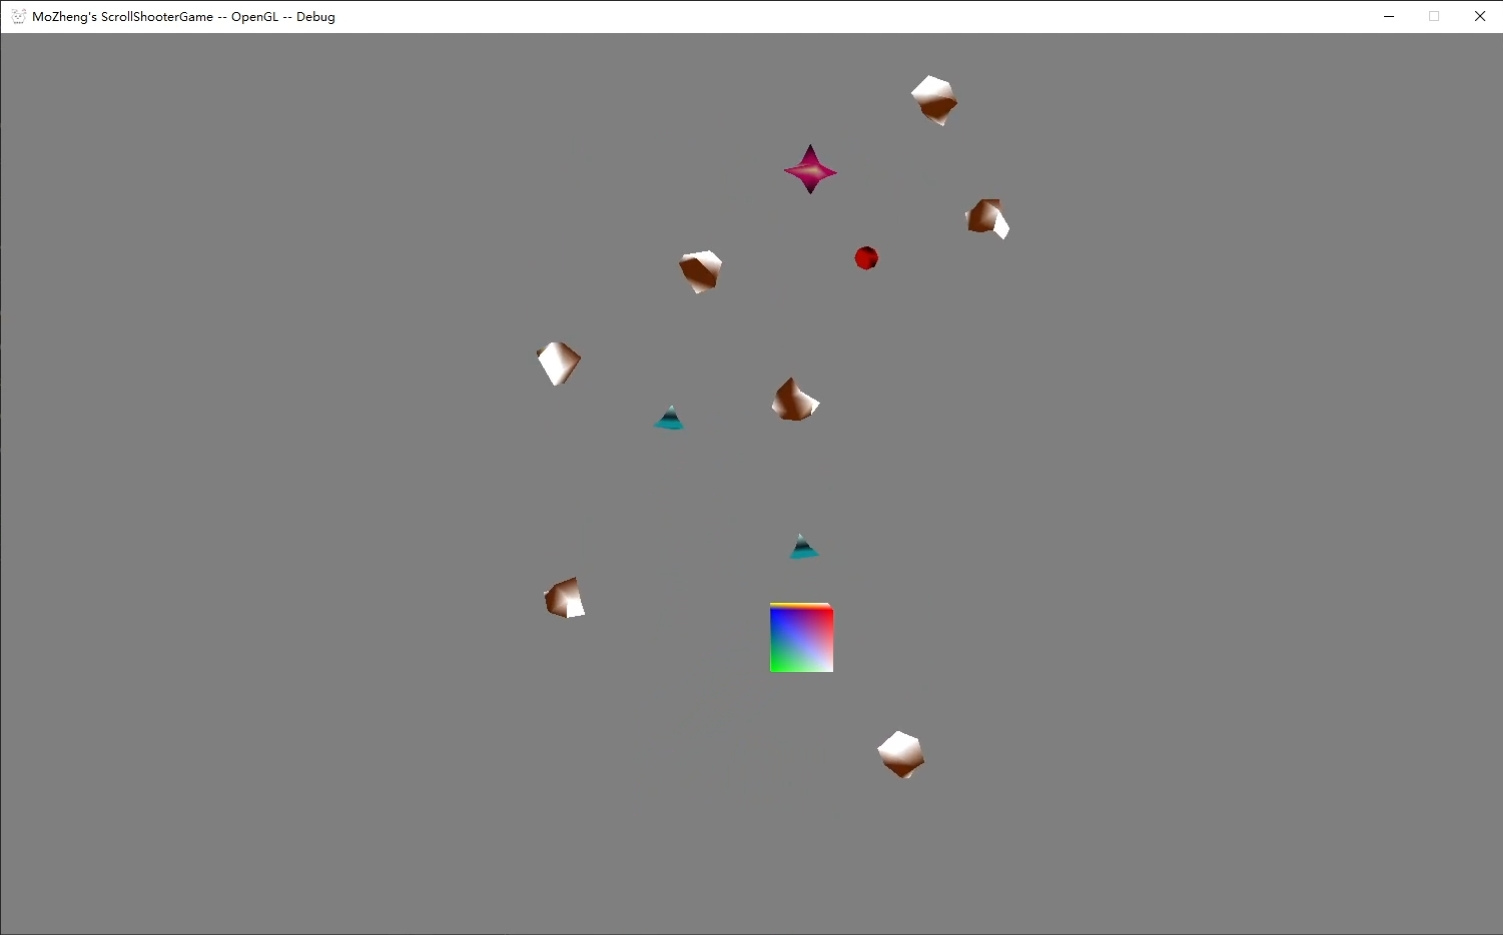
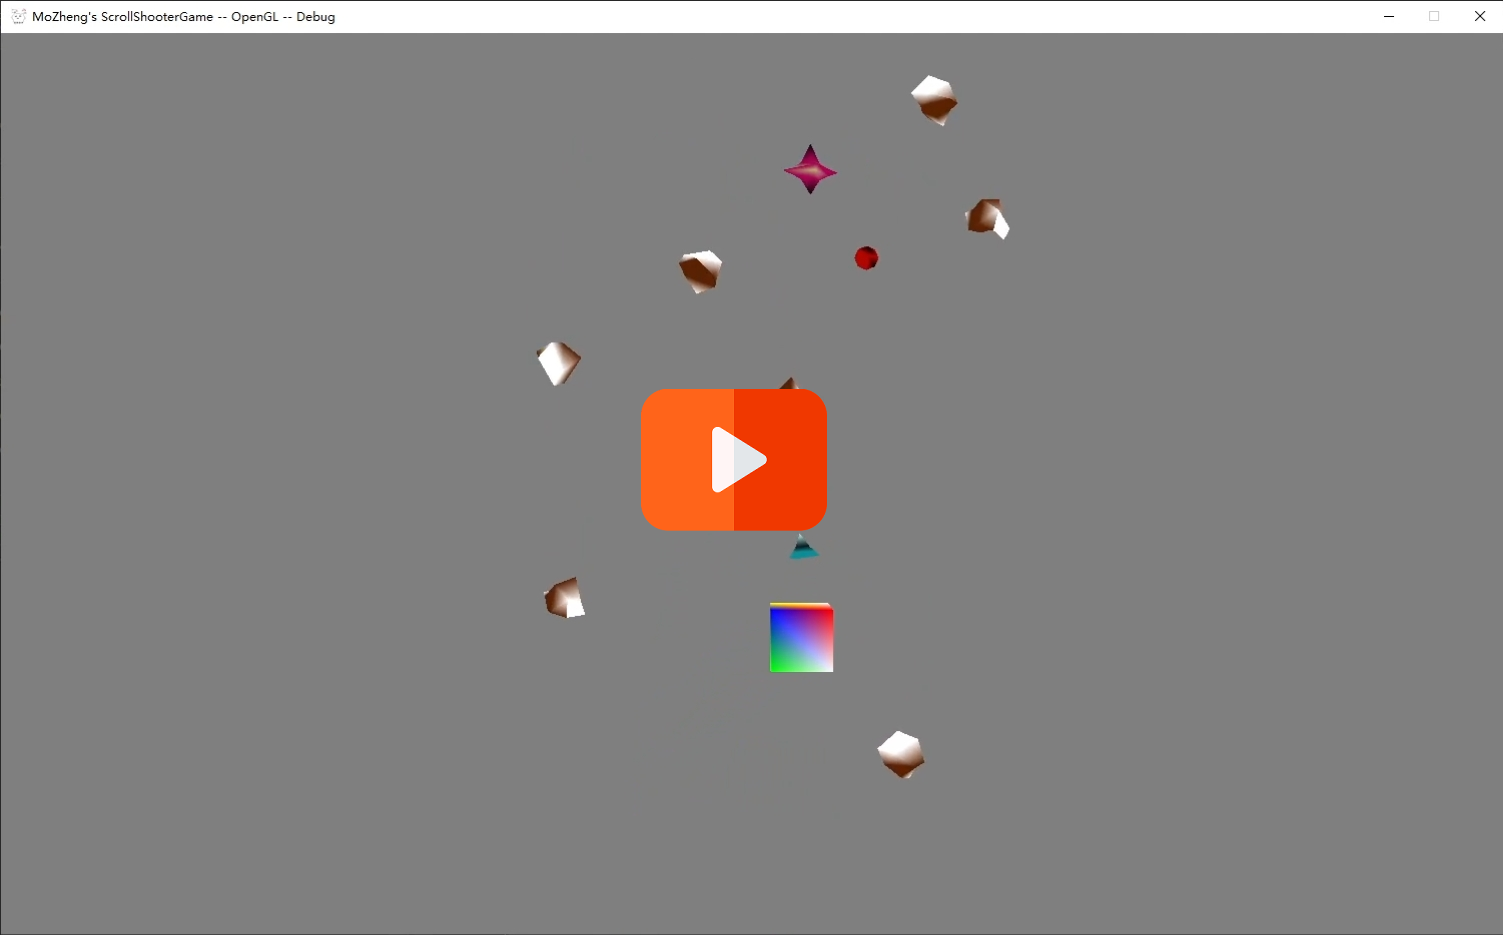
Update project description (add Chinese translation)

Changed region(s): [[0.4285, 0.4032, 0.5509, 0.5893]]

diff --git a/README.zh-CN.md b/README.zh-CN.md
@@ -19,27 +19,33 @@
 
 ## 引擎展示
 
+| **小游戏展示 - 雷电II** |
+|         :---           |
+| 下面的视频展示了一款基于该游戏引擎开发的竖版射击小游戏，该小游戏的玩法参考了 *"雷电II"*。玩家是视频中彩色方块，需要躲避下落的岩石、外星人和敌人的子弹。 <br> 小游戏的开发使用了渲染管线，物理系统，音频系统等引擎功能。该小游戏可以通过[此链接](Documents/Builds/ScrollShooterDemo)下载并运行。|
+| [<img src="Documents/Images/MiniGameDemo.png" width="800px">](https://www.youtube.com/watch?v=xEG6YPtX860) |
+
+
 | **渲染管线展示** |
 |       :---      |
 | 下面的GIF演示了渲染管线的功能，例如网格渲染、网格变换、顶点颜色渲染、特效着色器等。<br> GIF中的两个白盒人物是使用本引擎提供的Maya插件导出的第三方模型。（详见[资产管线章节]((#AssetPipeline))） <br> 光照、阴影和纹理渲染等功能的开发正在进行中。 |
-| <img src="Documents/Gifs/RenderingPipelineDemo.gif" width="810px" height="455px"> |
+| <img src="Documents/Gifs/RenderingPipelineDemo.gif" width="800px" height="455px"> |
 
 
 | **物理系统展示 - BVH树** |
 |          :---           | 
 | 下面的GIF演示了在游戏中使用BVH树（包围体积层次数）来管理碰撞体，并且展示了BVH树在运行期的实时更新。<br> 在实际渲染中，BVH树由蓝色框架表示，而碰撞体则由各种颜色的框架表示。 |
-|  <img src="Documents/Gifs/BVHTreeDemo.gif" width="810px" height="455px"> |
+|  <img src="Documents/Gifs/BVHTreeDemo.gif" width="800px" height="455px"> |
 
 
 | **物理系统展示 - 碰撞检测和碰撞解决** |
 |                 :---               | 
 | 下面的GIF展示了游戏运行时的碰撞检测和碰撞解决过程。<br> 在实际渲染中，立方体框架代表 AABB（轴对齐包围盒）碰撞器；菱形框架代表球体碰撞器。 <br> 框架颜色的含义如下：绿色表示普通碰撞器，黄色表示静态碰撞器，粉红色表示触发器碰撞器，红色则表示碰撞器当前正在与其他碰撞器发生碰撞。 <br> 需要注意的是，静态碰撞器和触发器碰撞器都不参与碰撞解决。 |
-|  <img src="Documents/Gifs/CollisionDemo.gif" width="810px" height="455px"> |
+|  <img src="Documents/Gifs/CollisionDemo.gif" width="800px" height="455px"> |
 
 
 | **游戏引擎 Release** |
 |       :---          | 
-| 此游戏引擎可以通过[该链接](Documents/Builds/EngineDemo)下载并运行。其中 *"MyGame.exe"* 文件是游戏引擎的运行文件。 |
+| 该游戏引擎可以通过[此链接](Documents/Builds/EngineDemo)下载并运行。其中 *"MyGame.exe"* 文件是游戏引擎的运行文件。 |
 | 引擎运行时，请使用以下控制方案： <br> 控制其中一个AABB碰撞器："A"键、"W"键、"S"键、"D"键、"R"键、"F"键。 <br> 控制摄像机："左箭头"键、"右箭头"键、"上箭头"键、"下箭头"键、"Delete"键、"Home"键、"End"键、"Page Down"键。 |
 
 

diff --git a/README.md b/README.md
@@ -28,19 +28,19 @@ Read this in other languages:
 | **Rendering Pipeline Demo** |
 |           :---              |
 | The GIF below demostrates the functionality of the renderind pipeline, such as mesh rendering, mesh transforms, vertex color, animate shaders. <br> The two white-box character models are exported using the *"Maya Exporter"* plugin provided by this game engine (See [Asset Pipeline](#AssetPipeline) session for more detail). <br> The development of lighting, shardowing and texturing is in progress. |
-| <img src="Documents/Gifs/RenderingPipelineDemo.gif" width="810px" height="455px"> |
+| <img src="Documents/Gifs/RenderingPipelineDemo.gif" width="800px" height="455px"> |
 
 
 | **Physics System Demo - BVH Tree** |
 |               :---                 | 
 | The GIF below demonstrates the usage of the BVH (Bounding Volume Hierarchy) tree for managing colliders in the game world, and illustrates how the BVH tree updates. <br> In the visualization, the BVH tree is represented by blue frames, while the colliders are represented by frames in various colors.  |
-|  <img src="Documents/Gifs/BVHTreeDemo.gif" width="810px" height="455px"> |
+|  <img src="Documents/Gifs/BVHTreeDemo.gif" width="800px" height="455px"> |
 
 
 | **Physics System Demo - Collision Detection and Resolution** |
 |                           :---                               | 
 | The GIF below illustrates the collision detection and collision resolution processes within the games runtime. <br> In the visualization, cube frames represent AABB (Axis-Aligned Bounding Box) colliders and diamon frames represent sphere colliders. <br> The color code is as follows: green denotes normal colliders, yellow denotes static colliders, pink denotes trigger colliders and red indicates that collider is colliding with other colliders. <br> Note that both static colliders and trigger colliders are not involved in collision resolution.  |
-|  <img src="Documents/Gifs/CollisionDemo.gif" width="810px" height="455px"> |
+|  <img src="Documents/Gifs/CollisionDemo.gif" width="800px" height="455px"> |
 
 
 | **Game Engine System Release** |
